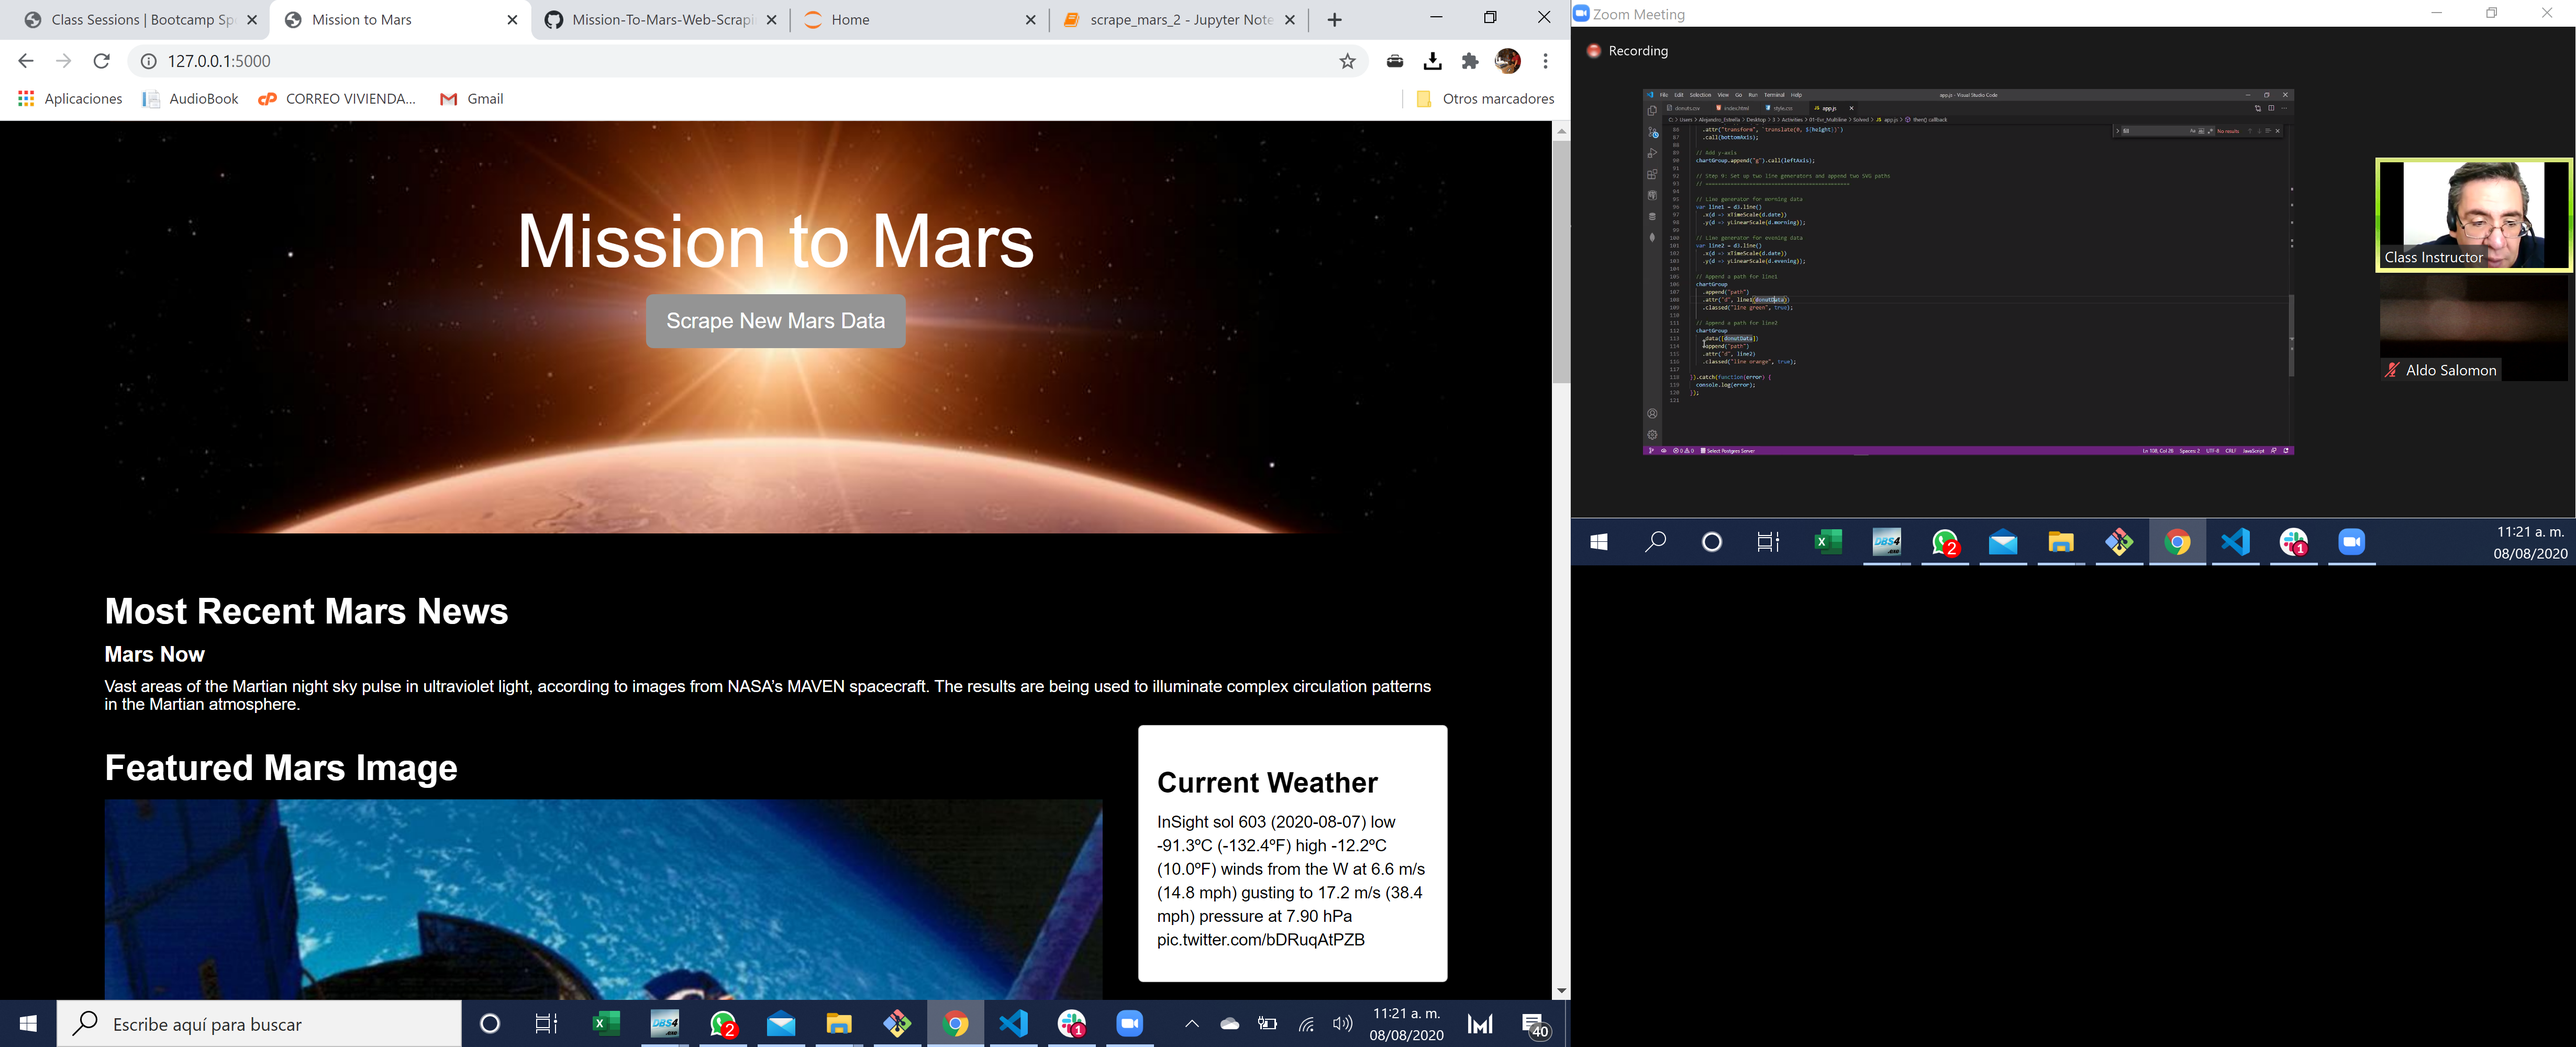
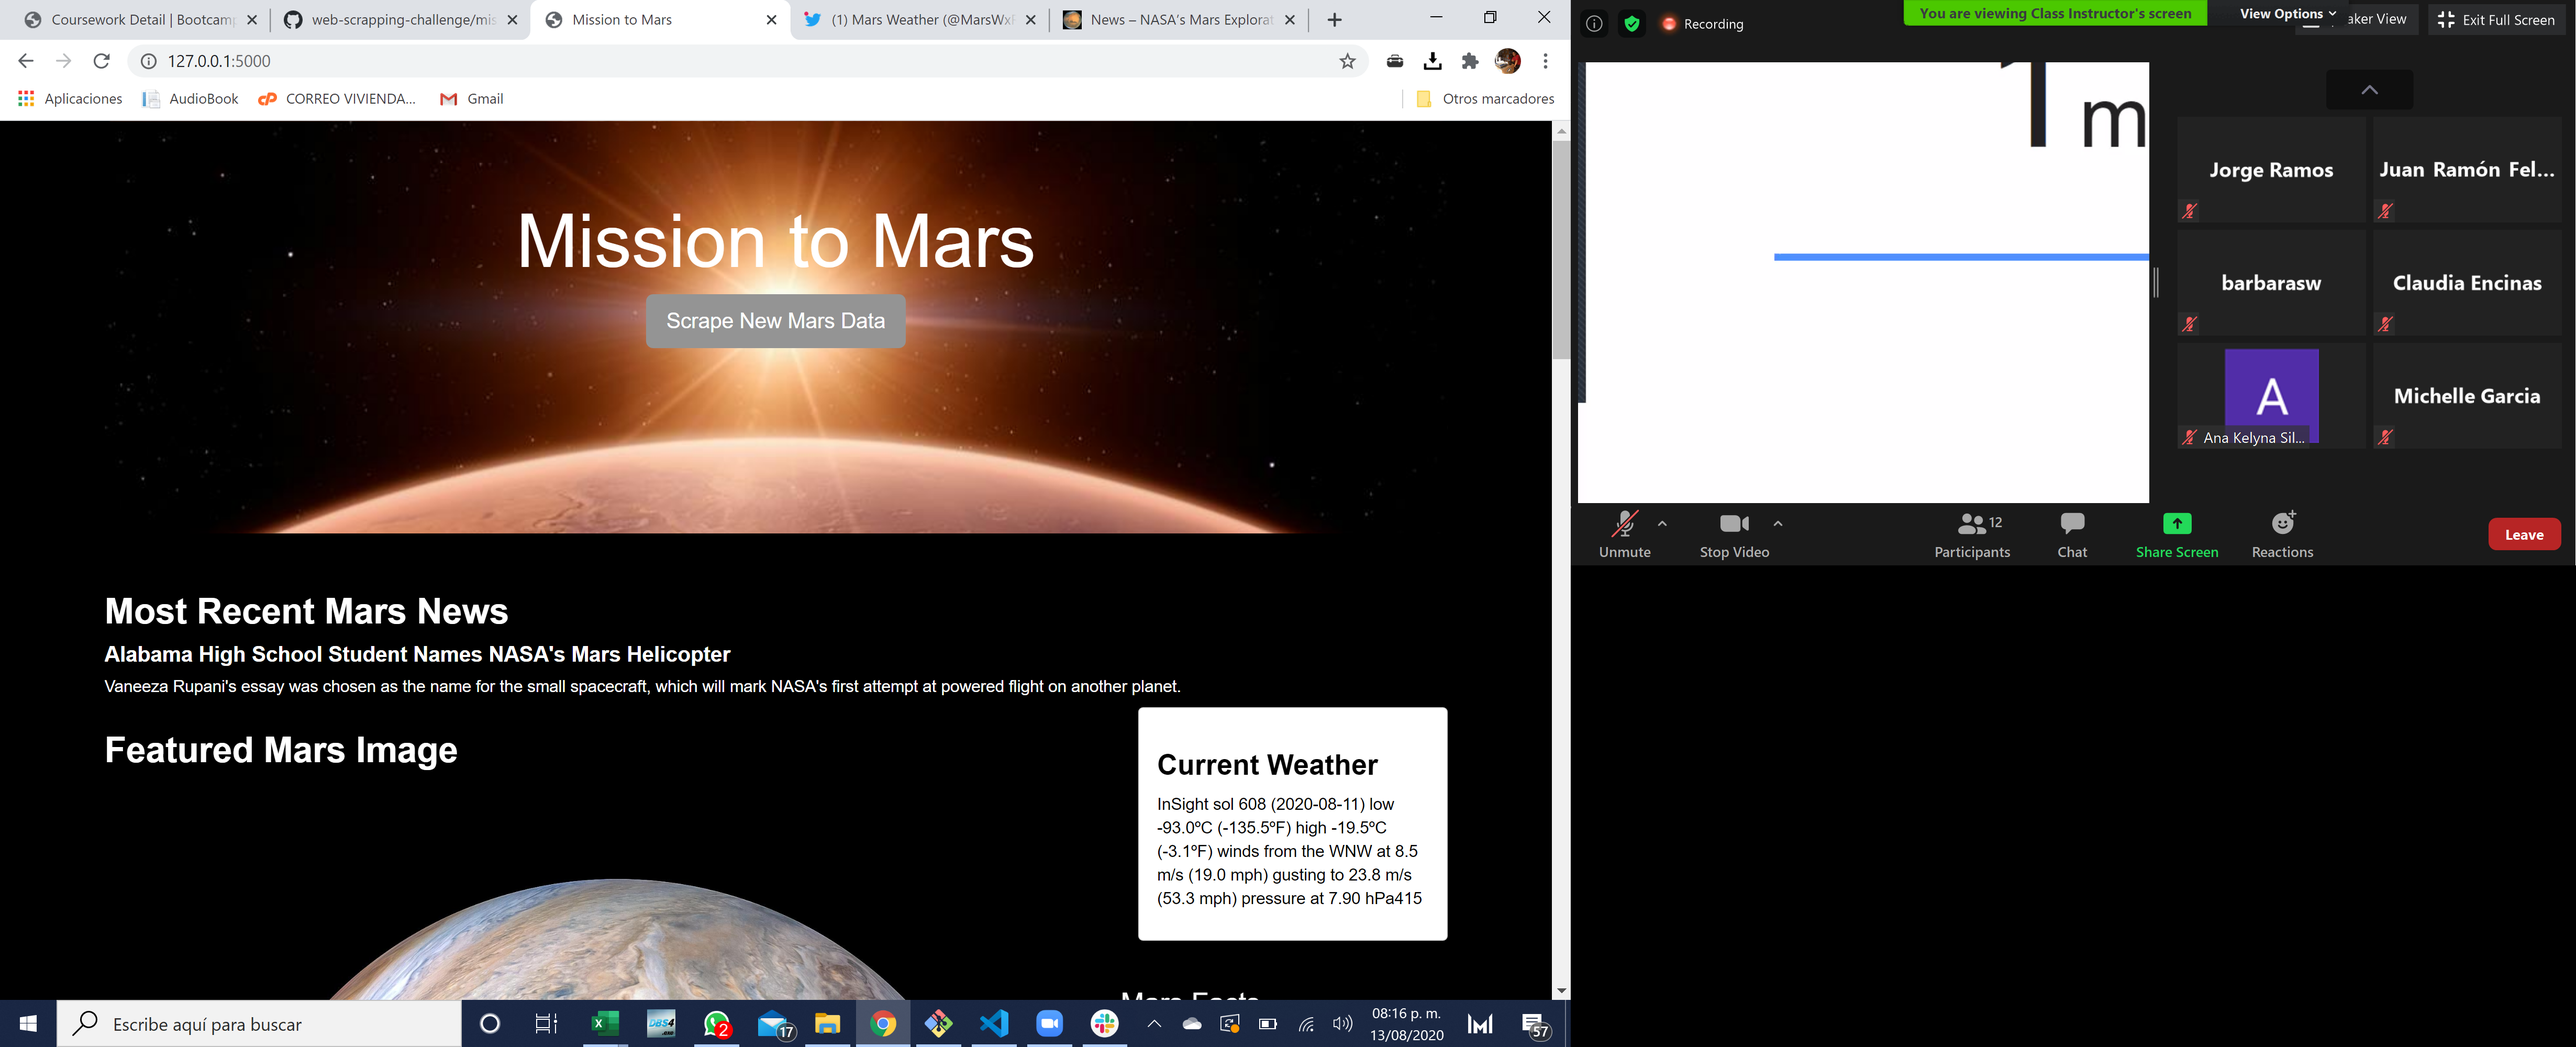
Add files via upload

diff --git a/scrape_mars.py b/scrape_mars.py
@@ -27,9 +27,11 @@ def scrape():
 
     # Retrieve the most recent article's title and paragraph.
     # Store in news variables.
-    news_title = news_soup.find("div", class_="content_title").get_text()
-    news_paragraph = news_soup.find("div", class_="article_teaser_body")
-
+    result = news_soup.find('div',class_="slide")
+    news_title = result.find('div',class_='content_title')
+    news_paragraph = result.find('div',class_='rollover_description_inner')
+    news_title = news_title.text
+    news_paragraph = news_paragraph.text
     # Exit Browser.
     browser.quit()
 
@@ -84,12 +86,15 @@ def scrape():
     html = browser.html
 
     # Parse HTML with Beautiful Soup
-    news_soup = BeautifulSoup(html, "html.parser")
+    twitter_soup = BeautifulSoup(html, "html.parser")
 
     # Retrieve the most recent article's title and paragraph.
     # Store in news variables.
-    mars_weather = news_soup.find("div", class_="css-901oao r-hkyrab r-1qd0xha r-a023e6 r-16dba41 r-ad9z0x r-bcqeeo r-bnwqim r-qvutc0").get_text()
-    #news_paragraph = news_soup.find("div", class_="article_teaser_body").get_text()
+    result = twitter_soup.find('div',{"data-testid":"tweet"})
+    mars_weather = result.find("div", class_="css-901oao r-hkyrab r-1qd0xha r-a023e6 r-16dba41 r-ad9z0x r-bcqeeo r-bnwqim r-qvutc0")
+    
+    mars_weather = result.text
+    mars_weather = mars_weather.replace("Mars Weather@MarsWxReport·12h","")
 
 
     # Exit Browser.

diff --git a/app.py b/app.py
@@ -6,7 +6,7 @@ import scrape_mars
 app = Flask(__name__)
 
 # Use PyMongo to establish Mongo connection
-mongo = PyMongo(app, uri="mongodb://localhost:27017/mars_app")
+mongo = PyMongo(app, uri="mongodb://localhost:27017/mars_app2")
 
 # Create route that renders index.html template and finds data from mongo
 @app.route("/")
